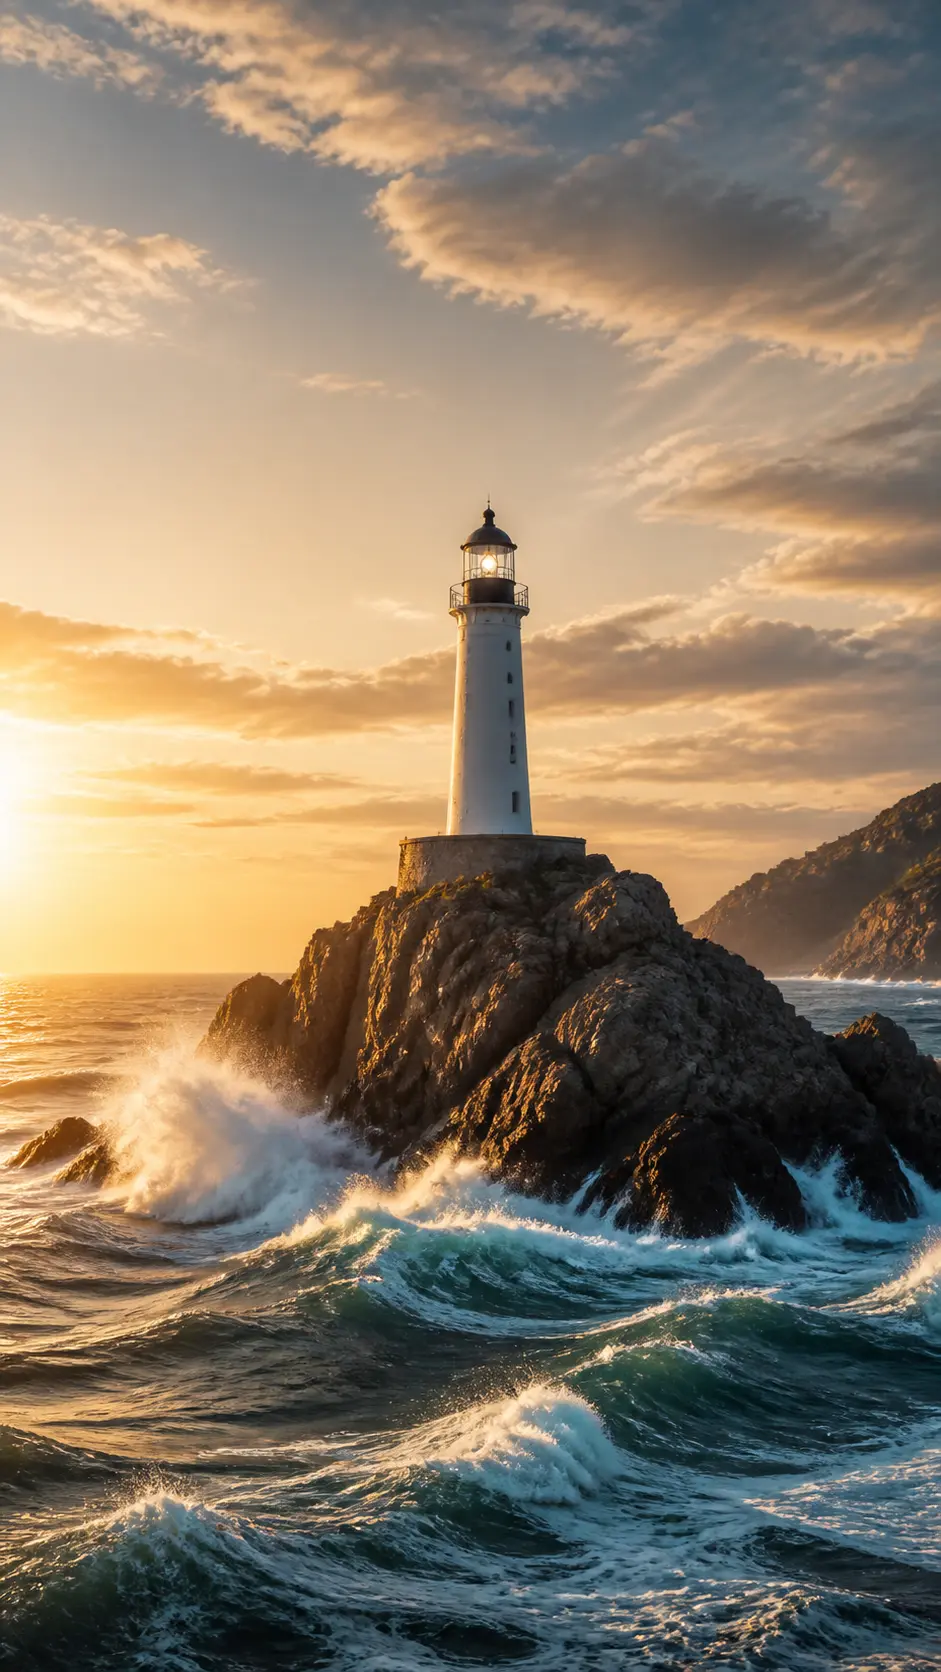
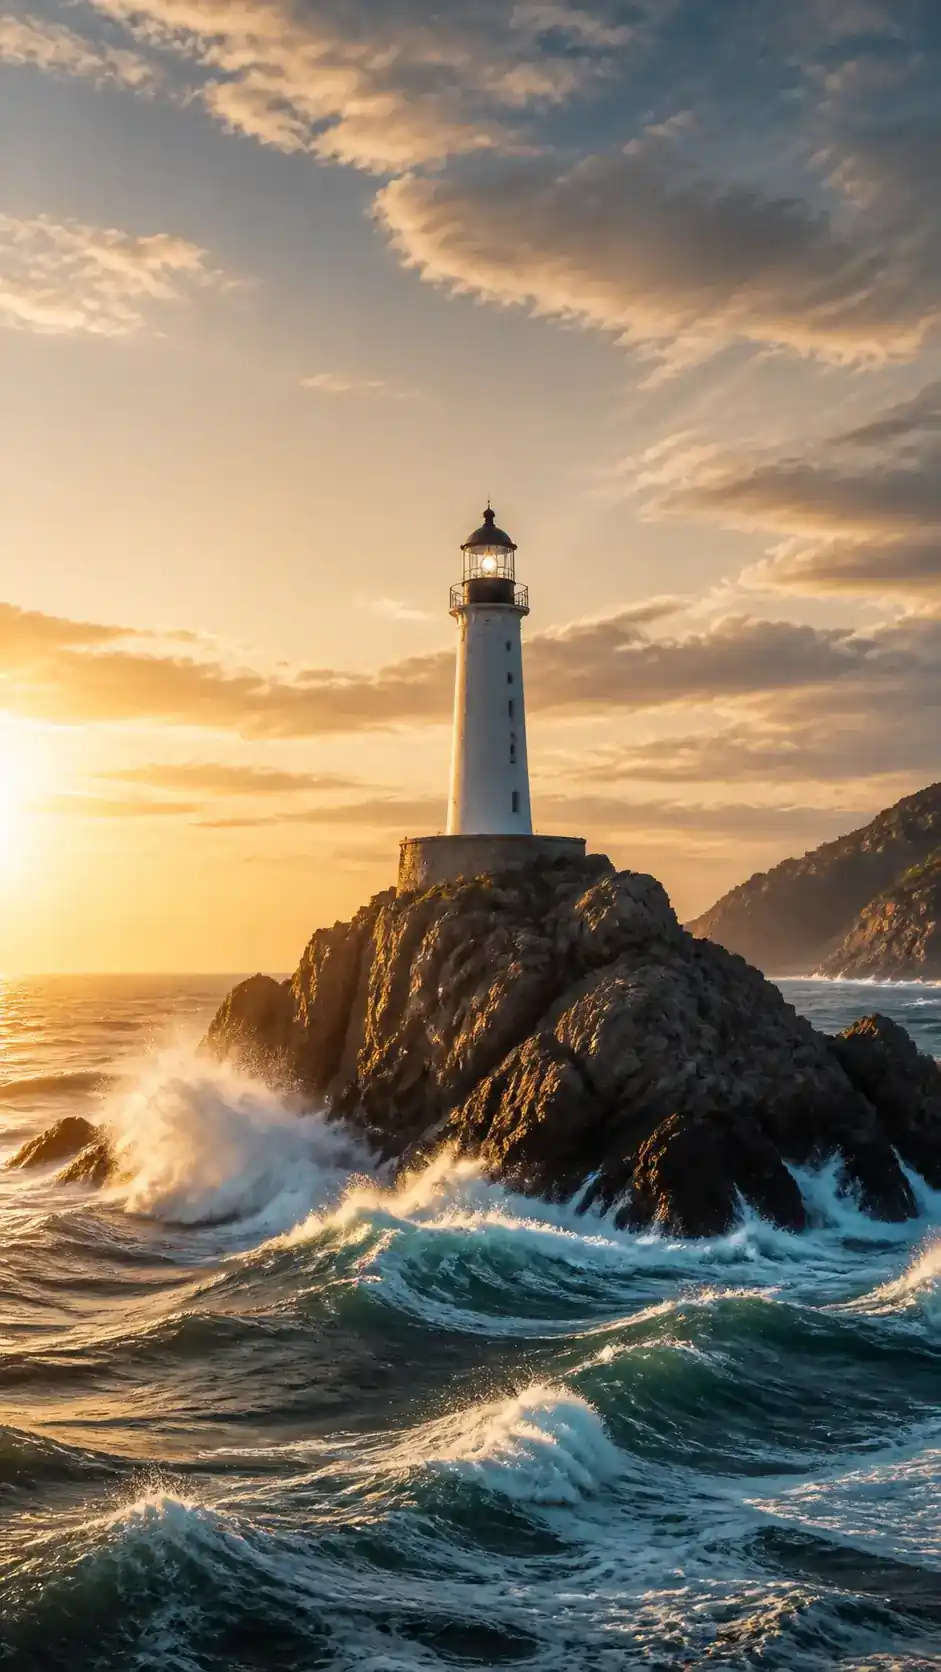
perf: improve mobile hero image resolution

Changed region(s): [[0.5239, 0.622, 0.5855, 0.6842]]

diff --git a/psicologia-deportiva.html b/psicologia-deportiva.html
@@ -17,7 +17,7 @@
     <link rel="preconnect" href="https://fonts.gstatic.com" crossorigin>
     <link rel="stylesheet" href="https://fonts.googleapis.com/css2?family=Cormorant+Garamond:ital,wght@0,400;0,500;1,400&family=Poppins:wght@300;400;500;600&display=optional" media="print" onload="this.media='all'">
     <noscript><link rel="stylesheet" href="https://fonts.googleapis.com/css2?family=Cormorant+Garamond:ital,wght@0,400;0,500;1,400&family=Poppins:wght@300;400;500;600&display=optional"></noscript>
-    <link rel="preload" as="image" href="images/Oficina/hero-deportivo-mobil.webp" media="(max-width: 768px)" fetchpriority="high">
+    <link rel="preload" as="image" href="images/Oficina/hero-deportivo-mobil.webp?v=20260530-img1" media="(max-width: 768px)" fetchpriority="high">
     <link rel="preload" as="image" href="images/Oficina/hero-deportivo-escritorio.webp" media="(min-width: 769px)" fetchpriority="high">
     <link rel="stylesheet" href="https://cdnjs.cloudflare.com/ajax/libs/font-awesome/6.5.1/css/all.min.css" media="print" onload="this.media='all'" />
     <link rel="stylesheet" href="critical.css?v=20260530-critical2">
@@ -222,7 +222,7 @@
     <main>
         <section id="hero">
             <picture>
-                <source media="(max-width: 768px)" srcset="images/Oficina/hero-deportivo-mobil.webp">
+                <source media="(max-width: 768px)" srcset="images/Oficina/hero-deportivo-mobil.webp?v=20260530-img1">
                 <img src="images/Oficina/hero-deportivo-escritorio.webp" alt="Psicología deportiva" class="hero-bg-img" fetchpriority="high" width="1536" height="1024">
             </picture>
             <div class="container">

diff --git a/index.html b/index.html
@@ -30,7 +30,7 @@
     <link rel="preconnect" href="https://fonts.gstatic.com" crossorigin>
     <link rel="stylesheet" href="https://fonts.googleapis.com/css2?family=Cormorant+Garamond:ital,wght@0,400;0,500;1,400&family=Poppins:wght@300;400;500;600&display=optional" media="print" onload="this.media='all'">
     <noscript><link rel="stylesheet" href="https://fonts.googleapis.com/css2?family=Cormorant+Garamond:ital,wght@0,400;0,500;1,400&family=Poppins:wght@300;400;500;600&display=optional"></noscript>
-    <link rel="preload" as="image" href="images/hero-index.mobil.webp" media="(max-width: 768px)" fetchpriority="high">
+    <link rel="preload" as="image" href="images/hero-index.mobil.webp?v=20260530-img1" media="(max-width: 768px)" fetchpriority="high">
     <link rel="preload" as="image" href="images/hero-index.escritorio.webp" media="(min-width: 769px)" fetchpriority="high">
     <link rel="stylesheet" href="https://cdnjs.cloudflare.com/ajax/libs/font-awesome/6.5.1/css/all.min.css" media="print" onload="this.media='all'" />
     <link rel="stylesheet" href="critical.css?v=20260530-critical2">
@@ -626,7 +626,7 @@
         <!-- HERO -->
         <section id="hero">
             <picture>
-                <source media="(max-width: 768px)" srcset="images/hero-index.mobil.webp">
+                <source media="(max-width: 768px)" srcset="images/hero-index.mobil.webp?v=20260530-img1">
                 <img src="images/hero-index.escritorio.webp" alt="Consulta psicológica en Providencia" class="hero-bg-img" fetchpriority="high" width="1600" height="1067">
             </picture>
             <div class="container">
